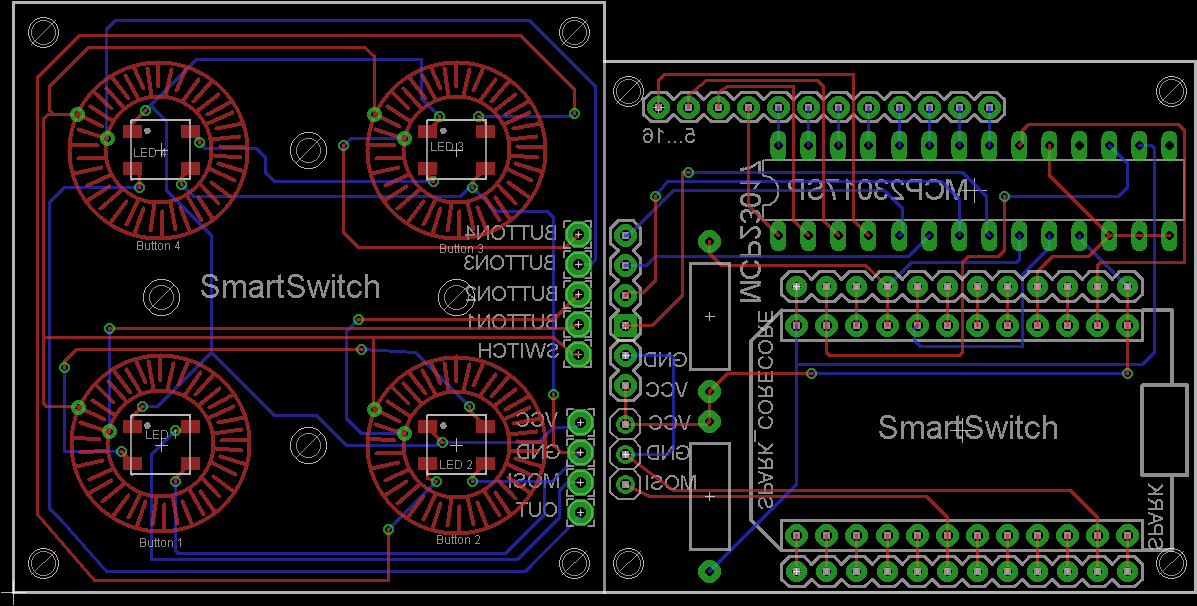
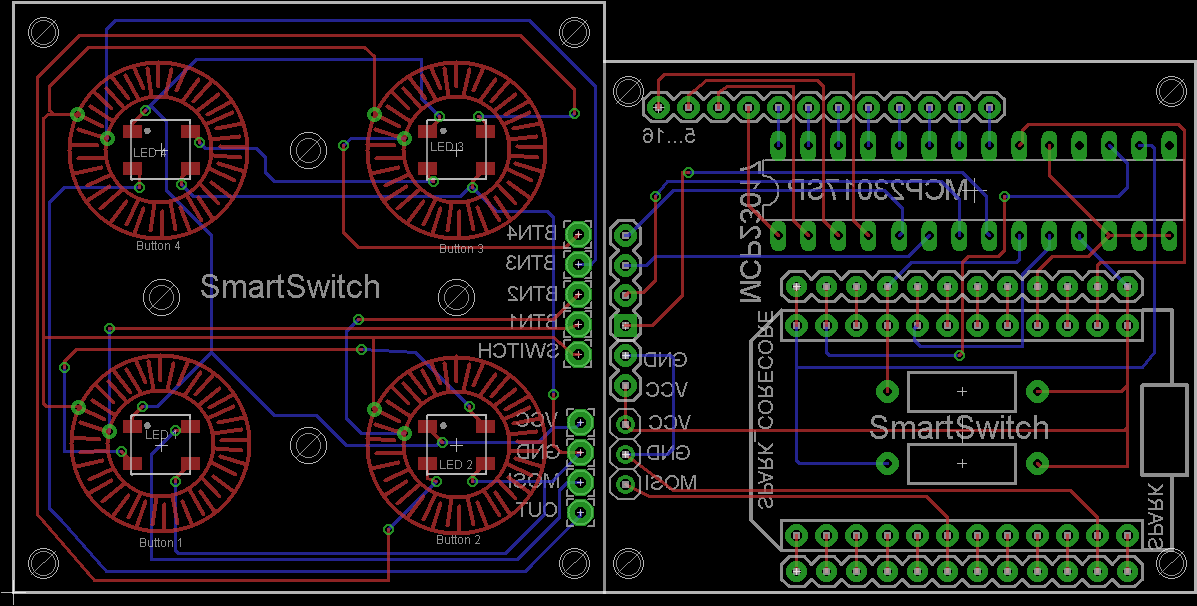
Move resistors

diff --git a/README.md b/README.md
@@ -1,2 +1,20 @@
 SmartSwitchPCB
 ==============
+
+
+## Check Layout
+1. Open brd-Layout
+2. Tools -> DRC
+3. Load
+4. Choose 'ITEADstudio_DRC.dru' (ftp://imall.iteadstudio.com/PCBs/ITEADstudio_DRC.zip)
+5. Check... 
+
+
+## Generate Gerbers
+1. Open brd-Layout
+2. File -> CAM Processor
+3. File -> Open --> Job ...
+4. Choose 'ITeadstudio_CAM6.cam'  (ftp://imall.iteadstudio.com/PCBs/ITEADstudio_CAM%20for%20Eagle6.x.zip)
+5. Execute Job...
+
+
